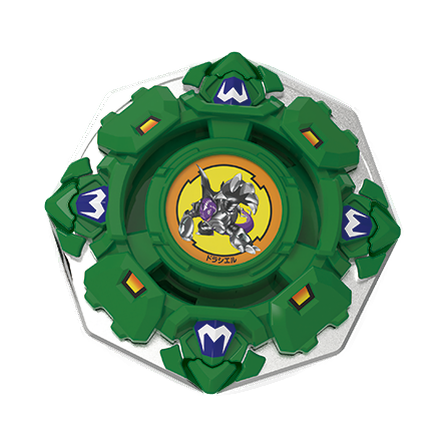
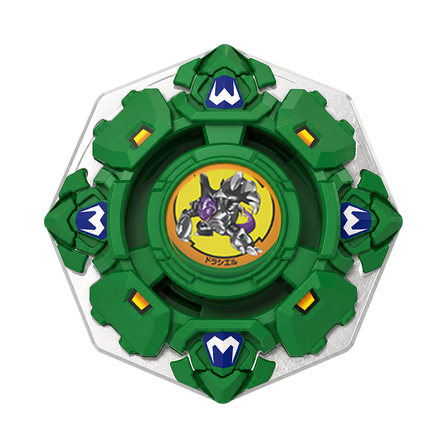
fix: correct Draciel Shield top view

Changed region(s): [[0.0938, 0.0938, 0.9062, 0.9062]]

diff --git a/index.html b/index.html
@@ -484,14 +484,14 @@
         "#app/services": "./src/app-services.js?v=20260714-scroll-affordance-overlay",
         "#app/markup-core": "./src/markup-core.js?v=20260714-scroll-affordance-overlay",
         "#app/anime-core": "./src/anime-core.js?v=20260720-burst-airdate-notes",
-        "#app/data-store": "./src/data-store.js?v=20260810-x-dran-dagger-buster-image-swap",
+        "#app/data-store": "./src/data-store.js?v=20260810-x-draciel-shield-angle",
         "#app/search-data-decoder": "./src/search-data-decoder.js?v=20260720-burst-airdate-notes",
         "#app/ui-core": "./src/ui-core.js?v=20260731-mobile-highlight-fix",
         "#app/release-core": "./src/release-core.js?v=20260731-mobile-highlight-fix",
         "#app/scroll-affordance": "./src/scroll-affordance.js?v=20260719-dropdown-shadow-mounted-label",
         "#app/search-core": "./src/search-core.js?v=20260717-dead-code-cleanup",
         "#app/search-engine": "./src/search-engine.js?v=20260731-mobile-highlight-fix",
-        "#app/catalog-model": "./src/catalog-model.js?v=20260810-x-dran-dagger-buster-image-swap",
+        "#app/catalog-model": "./src/catalog-model.js?v=20260810-x-draciel-shield-angle",
         "#app/collection-view": "./src/collection-view.js?v=20260731-mobile-highlight-fix",
         "#app/catalog-view": "./src/catalog-view.js?v=20260717-dead-code-cleanup",
         "#app/route-parser": "./src/route-parser.js?v=20260714-scroll-affordance-overlay",
@@ -500,7 +500,7 @@
         "#app/search-controller": "./src/search-controller.js?v=20260714-scroll-affordance-overlay",
         "#app/search-help-controller": "./src/search-help-controller.js?v=20260717-dead-code-cleanup",
         "#app/detail-view": "./src/detail-view.js?v=20260803-modal-tag-wheel-edge",
-        "#app/image-preview": "./src/image-preview.js?v=20260810-x-dran-dagger-buster-image-swap",
+        "#app/image-preview": "./src/image-preview.js?v=20260810-x-draciel-shield-angle",
         "#app/modal-context": "./src/modal-context.js?v=20260714-scroll-affordance-overlay",
         "#app/style-loader": "./src/style-loader.js?v=20260804-mobile-modal-scrollbar-centering",
         "#app/feature-loaders": "./src/feature-loaders.js?v=20260717-dead-code-cleanup",

diff --git a/src/data-store.js b/src/data-store.js
@@ -8,7 +8,7 @@ const bookItems = [];
 const gameItems = [];
 const animeInfo = { title: "", overview: [], characters: [], episodes: [] };
 const searchIndexItems = [];
-const X_ASSET_CACHE_VERSION = "20260810-x-dran-dagger-buster-image-swap";
+const X_ASSET_CACHE_VERSION = "20260810-x-draciel-shield-angle";
 
 const versionAssetUrl = source => {
   const value = String(source || "");

diff --git a/scripts/normalize-x-bey-front-images.py b/scripts/normalize-x-bey-front-images.py
@@ -16,7 +16,7 @@ from PIL import Image
 
 CONFIG_PATH = Path("data/source/x-bey-primary-images.json")
 ANGLE_CONFIG_PATH = Path("data/source/x-bey-angle-corrections.json")
-CONFIG_VERSION = "20260810-x-dran-dagger-buster-image-swap"
+CONFIG_VERSION = "20260810-x-draciel-shield-angle"
 CANVAS_SIZE = 448
 TARGET_FOREGROUND_SIZE = 360
 ALPHA_THRESHOLD = 3

diff --git a/scripts/record-x-image-alpha-review.py b/scripts/record-x-image-alpha-review.py
@@ -14,7 +14,7 @@ from PIL import Image
 CANVAS_SIZE = 448
 MIN_MARGIN = 6
 MAX_FOREGROUND_SIZE = CANVAS_SIZE - MIN_MARGIN * 2
-REVIEW_VERSION = "20260810-x-dran-dagger-buster-image-swap"
+REVIEW_VERSION = "20260810-x-draciel-shield-angle"
 
 
 def parse_args() -> argparse.Namespace:

diff --git a/scripts/build-x-bey-angle-corrections.py b/scripts/build-x-bey-angle-corrections.py
@@ -115,7 +115,7 @@ SUPPLIED_FRONT_IDS = {
     "BEY-X-UX-19-BULLET-GRIFFON-H",
     "BEY-X-UX-20-GLORY-VALKYRIE-LF",
 }
-CONFIG_VERSION = "20260810-x-dran-dagger-buster-image-swap"
+CONFIG_VERSION = "20260810-x-draciel-shield-angle"
 
 
 def parse_args() -> argparse.Namespace:
